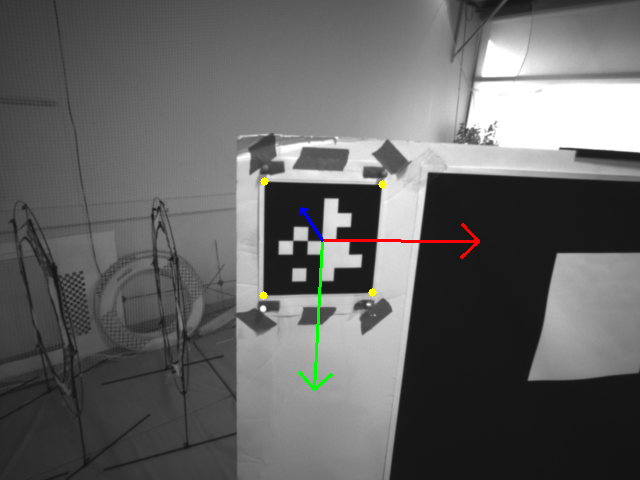
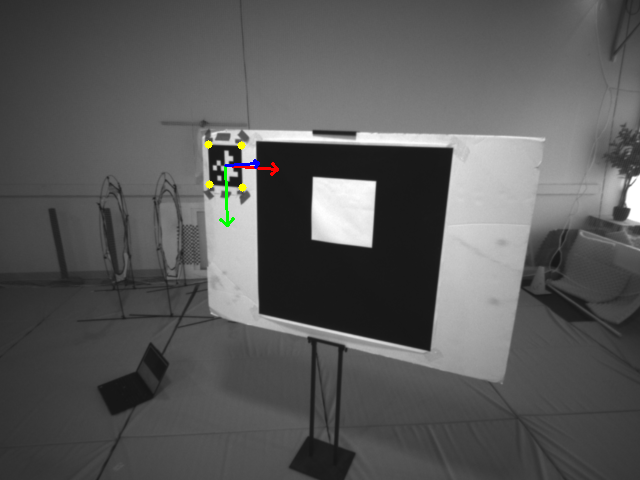
Working code for synthetic slam, not quite the shape I want

diff --git a/post/debug/plot_all.py b/post/debug/plot_all.py
@@ -25,7 +25,10 @@ if __name__== "__main__":
     parser.add_argument("--vicon_tx", action="store_true", help="Plot Vicon TX Pose trajectory if available in all.json")    
     parser.add_argument("--uwbmap_vicon", action="store_true", help="Plot assisted UWB vicon body pose trajectory if available in all.json")    
     parser.add_argument("--stride", type=int, default=0, help="Stride to draw trajectory axes (default: 20)")
-    parser.add_argument("--accel", action="store_true", help="Display accelerometer vectors rotated into world frame")
+
+    parser.add_argument("--accel_bodyframe", action="store_true", help="Display accelerometer vectors rotated into body frame")
+    parser.add_argument("--accel_imuframe", action="store_true", help="Display raw accelerometer vectors")
+
     parser.add_argument("--velocity", action="store_true", help="Display velocity vectors rotated into world frame")
     parser.add_argument("--transforms_json", help="Optional transforms.json file", default=None)
     args = parser.parse_args()
@@ -63,6 +66,7 @@ if __name__== "__main__":
             uwbmap_vicon_poses.append(np.array(item["T_body_world"]))  # T_world_to_body
             
         if item.get("type") == "imu":
+            print(item)
             a_vector = np.array([item["ax"], item["ay"], item["az"]])
             accel_vectors.append(a_vector)  # T_world_to_body
             accel_ts.append(item["t"])
@@ -90,8 +94,10 @@ if __name__== "__main__":
     if args.vicon and vicon_poses:
         positions_world = []
         imu_poses = []
+        body_poses = []
         for body_pose in vicon_poses:
             positions_world.append(np.linalg.inv(body_pose)[:3, 3])  # translation
+            body_poses.append(body_pose)
             imu_poses.append(np.linalg.inv(T_imu_to_body) @ body_pose)
         positions_world = np.array(positions_world)
 
@@ -100,20 +106,29 @@ if __name__== "__main__":
         ax.scatter(*positions_world[0], color='green', marker='^', label='Vicon Start')
         ax.scatter(*positions_world[-1], color='red', marker='^', label='Vicon End')
 
-        if args.accel:
+        # Plotting acceleration vectors
+        skip = 100
+        accel_ts = np.array(accel_ts)
+        accel_vectors = np.array(accel_vectors)
+        for i, (imu_pose, body_pose, vts) in enumerate(zip(imu_poses, body_poses, vicon_ts)):
+            if i % skip == 0:
+                # Find closest accelerometer measurement to pose
+                idx = np.argmin(np.abs(vts -accel_ts))
 
-            skip = 100
-            accel_ts = np.array(accel_ts)
-            accel_vectors = np.array(accel_vectors)
-            for i, (vpose, vts) in enumerate(zip(vicon_poses, vicon_ts)):
-                if i % skip == 0:
-                    # Find closest accelerometer measurement to pose
-                    idx = np.argmin(np.abs(vts -accel_ts))
-                    # Plot that vector in the world frame
+                # Plot that vector in the body frame
+                if args.accel_bodyframe:
                     accel_vector_imu_frame = accel_vectors[idx] / np.linalg.norm(accel_vectors[idx]) #unit vector
-                    accel_vector_world_frame = T_imu_to_body[:3,:3] @ accel_vector_imu_frame # rotate vector into body frame
+                    T_body_to_world = np.linalg.inv(body_pose)
+                    accel_vector_world_frame = T_body_to_world[:3, :3] @ T_imu_to_body[:3,:3] @ (-1 * accel_vector_imu_frame) # rotate vector into world frame
+                    origin = np.linalg.inv(body_pose)[:3,3]
+                    ax.quiver(*origin, *accel_vector_world_frame, color='purple', length=0.3 )
 
-                    origin = np.linalg.inv(vpose)[:3,3]
+                if args.accel_imuframe:
+                    # Plot vector in the IMU frame
+                    accel_vector_imu_frame = accel_vectors[idx] / np.linalg.norm(accel_vectors[idx]) #unit vector
+                    T_imu_to_world = np.linalg.inv(imu_pose)
+                    accel_vector_world_frame = T_imu_to_world[:3,:3] @ (-1 * accel_vector_imu_frame) # rotate vector into world frame
+                    origin = np.linalg.inv(imu_pose)[:3,3]
                     ax.quiver(*origin, *accel_vector_world_frame, color='purple', length=0.3 )
 
         if args.velocity:
@@ -125,10 +140,13 @@ if __name__== "__main__":
                     ax.quiver(*origin, *v, color='pink', length=0.3 )
 
         if args.stride > 0:
-            # for i in range (0, len(imu_poses), args.stride):
-            #     draw_axes(ax, imu_poses[i], length=0.4)
-            for i in range(0, len(vicon_poses), args.stride):
-                draw_axes(ax, vicon_poses[i], length=0.4)
+            if args.accel_imuframe:
+                for i in range (0, len(imu_poses), args.stride):
+                    draw_axes(ax, imu_poses[i], length=0.4)
+            
+            if args.accel_bodyframe:
+                for i in range(0, len(vicon_poses), args.stride):
+                    draw_axes(ax, vicon_poses[i], length=0.4)
 
     # --- Vicon TX trajectory ---
     if args.vicon_tx and vicon_tx_poses:

diff --git a/post/post_process_vicon.py b/post/post_process_vicon.py
@@ -40,9 +40,16 @@ parser.add_argument("--slam_available", action="store_true") # If we have no orb
 # Since my code is a mess, I'm going to do this by just aliasing the vicon data into the slam arrays.
 
 parser.add_argument("--calibration_file", "-c", type=str)
-parser.add_argument("--crop_start", type=float) # Pass the ROS timestamp that you want to crop away all data before. Data will still be used to compute transforms.
+parser.add_argument("--crop_start", type=float, default=0) # Pass the relative timestamp from startthat you want to crop away all data before. Data will still be used to compute transforms.
 parser.add_argument("--anchors_file", "-a", type=str)
 parser.add_argument("--apriltags_file", "-p", type=str)
+
+# def str_to_tuple(s):
+#     print(s)
+#     toop = tuple(map(float, (s.remove("(").remove(")")).split(",")))
+#     print(toop)
+#     return toop
+parser.add_argument("--synth_slam", type=float, nargs=2)
 
 parser.add_argument("--interpolate_slam", "-i", default=0, type=int) # -i controls how many interpolated poses you want between each pair of SLAM poses.
 parser.add_argument("--synth_uwb_f", default=0, type=int) # interpolate GT to this frequency, so that gtsam_test can use synthetic ranges.
@@ -277,6 +284,72 @@ if args.vicon_available:
             }
         } for body_pose, body_v in zip( list(vicon_body_poses), list(vicon_body_velocities))]
 
+synth_slam_json = []
+if args.synth_slam:
+    print(args.synth_slam)
+
+    vicon_freq = len(vicon_data['LeftRS']) / (END-START)
+    skip = int(vicon_freq / args.synth_slam[0]) # Number of vicon poses to skip in subsampling to synth slam frequency
+
+    # Define error random walk
+    max_t_err = 0.5 # Allowing for at most 15cm trans error
+    max_R_err = 5 # Allowing for at most 5 deg rot error
+
+    t_rw_step = 0.001 # How much error change do we want to see per vicon pose? # 1mm change is at most 10cm drift / s
+    R_rw_step = 0.01
+    t_err = np.zeros(3)
+    R_err = np.eye(3)
+
+    rng = np.random.default_rng(0)
+
+    tracker_data_tum = np.array(vicon_data['LeftRS'])
+    slam_body_poses = [] # Synthetic slam body poses
+    for i in range(tracker_data_tum.shape[0]-1):
+        tracker_pose = slam_quat_to_HTM(tracker_data_tum[i, :])   # tracker pose as HTM
+
+        # Pose of our errored frame, in the current tracker frame. -> Error is applied in the tracker frame.
+        # First translate by t_err, then rotate by R_err
+        # this applies the translation error vector in the tracker coord frame.
+        t_err_transform = np.eye(4)
+        t_err_transform[:3,3] = t_err
+        R_err_transform = np.eye(4)
+        R_err_transform[:3,:3] = R_err
+        error_transform = R_err_transform @ t_err_transform
+
+        # T_world_to_slam = T_world_to_error
+        slam_body_pose =  np.linalg.inv(error_transform) @ np.linalg.inv(tracker_pose) #  T_tracker_to_error @ T_world_to_tracker
+        slam_body_poses.append([tracker_data_tum[i, 0]] + list(slam_body_pose.flatten()))
+
+        # Take the random walk step in our error. 
+        # Clamp t_err and R_err to bounds after step.
+        delta_t = rng.normal(0, t_rw_step, 3) # Generate step from Gauss
+         # We want 0 preturbation along the local z axis. I.e. no forward drift. But the Z-axis will not always be forward!
+        new_t_err = t_err + delta_t # Apply step
+        if np.linalg.norm(new_t_err) <= max_t_err: # Clamp
+            t_err = new_t_err
+
+        delta_rvec = rng.normal(0, np.deg2rad(R_rw_step), 3)  # Generate step from Gauss
+        delta_r = R.from_rotvec(delta_rvec).as_matrix()
+        new_R_err = delta_r @ R_err # Apply step
+        angle = R.from_matrix(new_R_err).magnitude()
+        if angle <= np.deg2rad(max_R_err): # Clamp
+            R_err = new_R_err
+
+    slam_body_poses = np.array(slam_body_poses)
+    slam_body_poses = slam_body_poses[::skip] # Finally, subsample to required frequency
+
+        # Convert from nparray to json format
+    # Add Vicon poses to all_data
+
+    print(slam_body_poses[:5])
+    synth_slam_json = [ {
+            "t": float(body_pose[0]),
+            "type": "synth_slam_pose",
+            "T_body_world" : body_pose[1:].reshape((4,4)),
+        } for body_pose in list(slam_body_poses)]
+
+
+
 # If we're using real UWB ranges, but have no compass
 # We interpolate on SLAM poses to match a synthetic orientation to that UWB range
 assisted_uwb_json = []
@@ -303,7 +376,7 @@ infra1_json = aggregate_infra1(topic_to_processing, out_infra1)
 infra2_json = aggregate_infra2(topic_to_processing, out_infra2)
 
     # Compose the final factor graph dataset
-all_data = uwb_json + imu_json + infra1_json + infra2_json + vicon_json + slam_json + assisted_uwb_json + vicon_uwbtx_json
+all_data = uwb_json + imu_json + infra1_json + infra2_json + vicon_json + slam_json + assisted_uwb_json + vicon_uwbtx_json + synth_slam_json
 
 # TODO: Compose the final synthetic dataset
 
